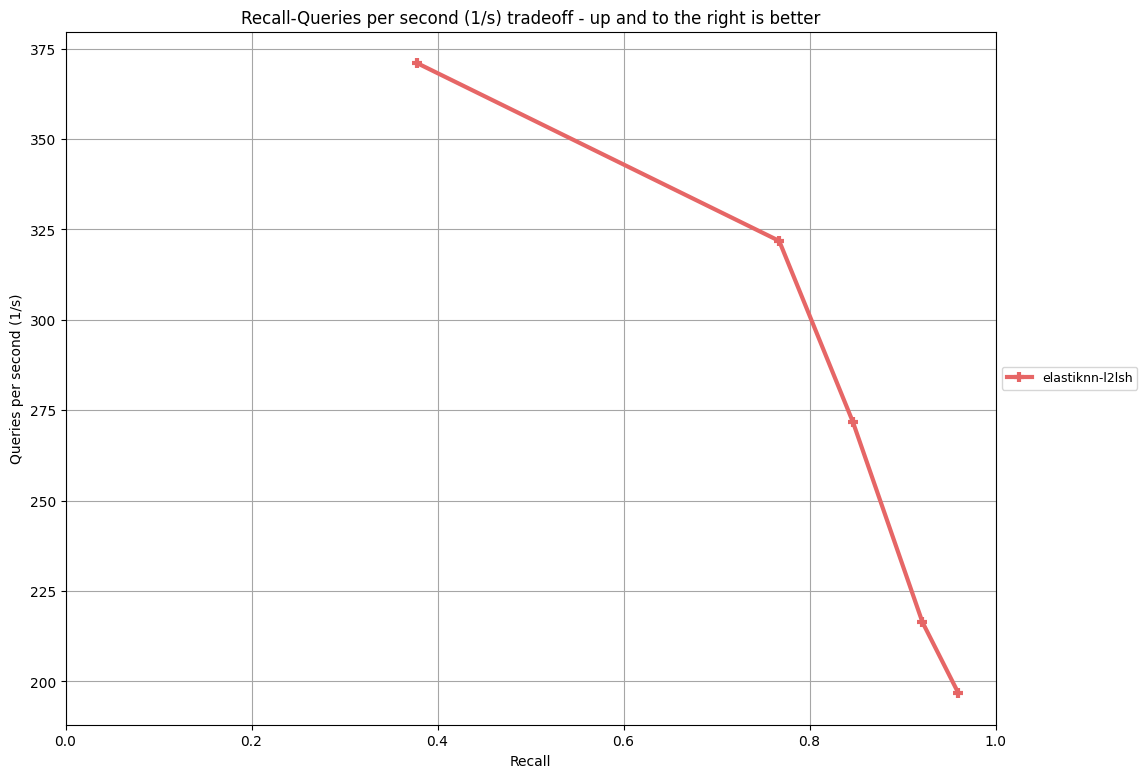
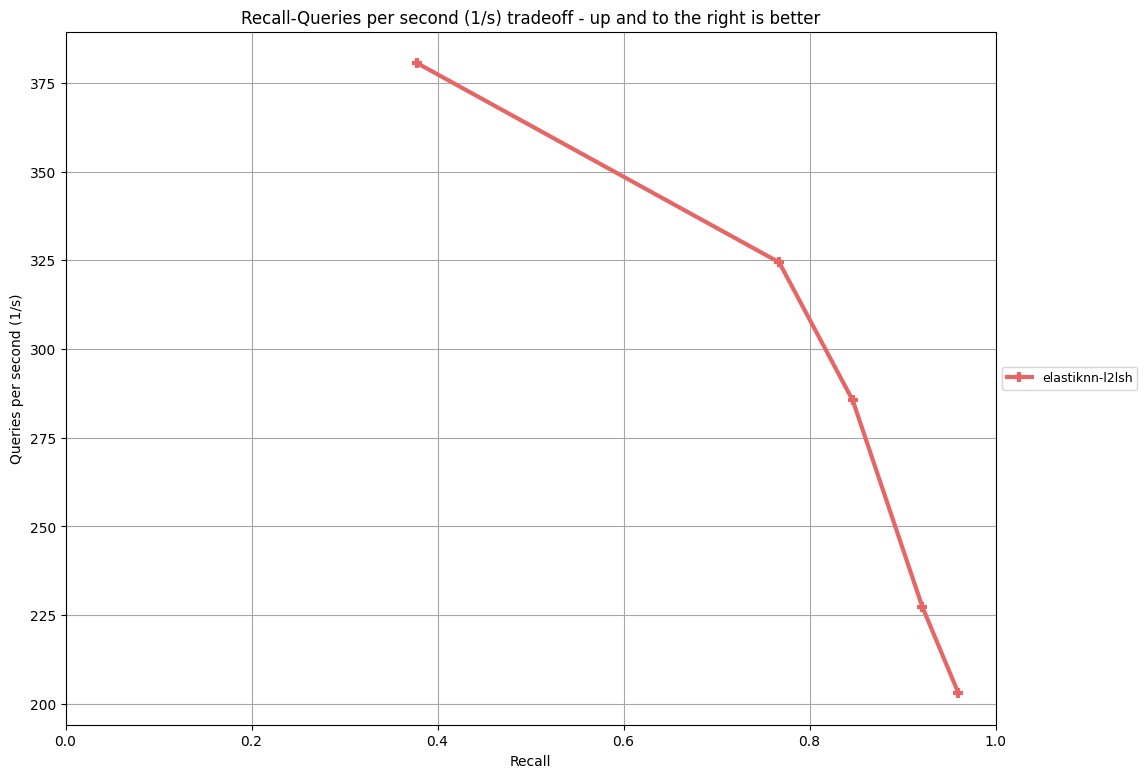
Performance: update benchmarks

diff --git a/docs/pages/performance/fashion-mnist/results.md b/docs/pages/performance/fashion-mnist/results.md
@@ -1,10 +1,10 @@
 |Model|Parameters|Recall|Queries per Second|
 |---|---|---|---|
-|eknn-l2lsh|L=100 k=4 w=1024 candidates=500 probes=0|0.378|370.991|
-|eknn-l2lsh|L=100 k=4 w=1024 candidates=1000 probes=0|0.447|309.856|
-|eknn-l2lsh|L=100 k=4 w=1024 candidates=500 probes=3|0.634|293.030|
-|eknn-l2lsh|L=100 k=4 w=1024 candidates=1000 probes=3|0.717|247.470|
-|eknn-l2lsh|L=100 k=4 w=2048 candidates=500 probes=0|0.767|321.846|
-|eknn-l2lsh|L=100 k=4 w=2048 candidates=1000 probes=0|0.847|271.771|
-|eknn-l2lsh|L=100 k=4 w=2048 candidates=500 probes=3|0.921|216.381|
-|eknn-l2lsh|L=100 k=4 w=2048 candidates=1000 probes=3|0.960|196.737|
+|eknn-l2lsh|L=100 k=4 w=1024 candidates=500 probes=0|0.378|380.590|
+|eknn-l2lsh|L=100 k=4 w=1024 candidates=1000 probes=0|0.446|315.649|
+|eknn-l2lsh|L=100 k=4 w=1024 candidates=500 probes=3|0.635|296.996|
+|eknn-l2lsh|L=100 k=4 w=1024 candidates=1000 probes=3|0.716|254.062|
+|eknn-l2lsh|L=100 k=4 w=2048 candidates=500 probes=0|0.767|324.453|
+|eknn-l2lsh|L=100 k=4 w=2048 candidates=1000 probes=0|0.847|285.500|
+|eknn-l2lsh|L=100 k=4 w=2048 candidates=500 probes=3|0.921|227.240|
+|eknn-l2lsh|L=100 k=4 w=2048 candidates=1000 probes=3|0.960|202.961|
